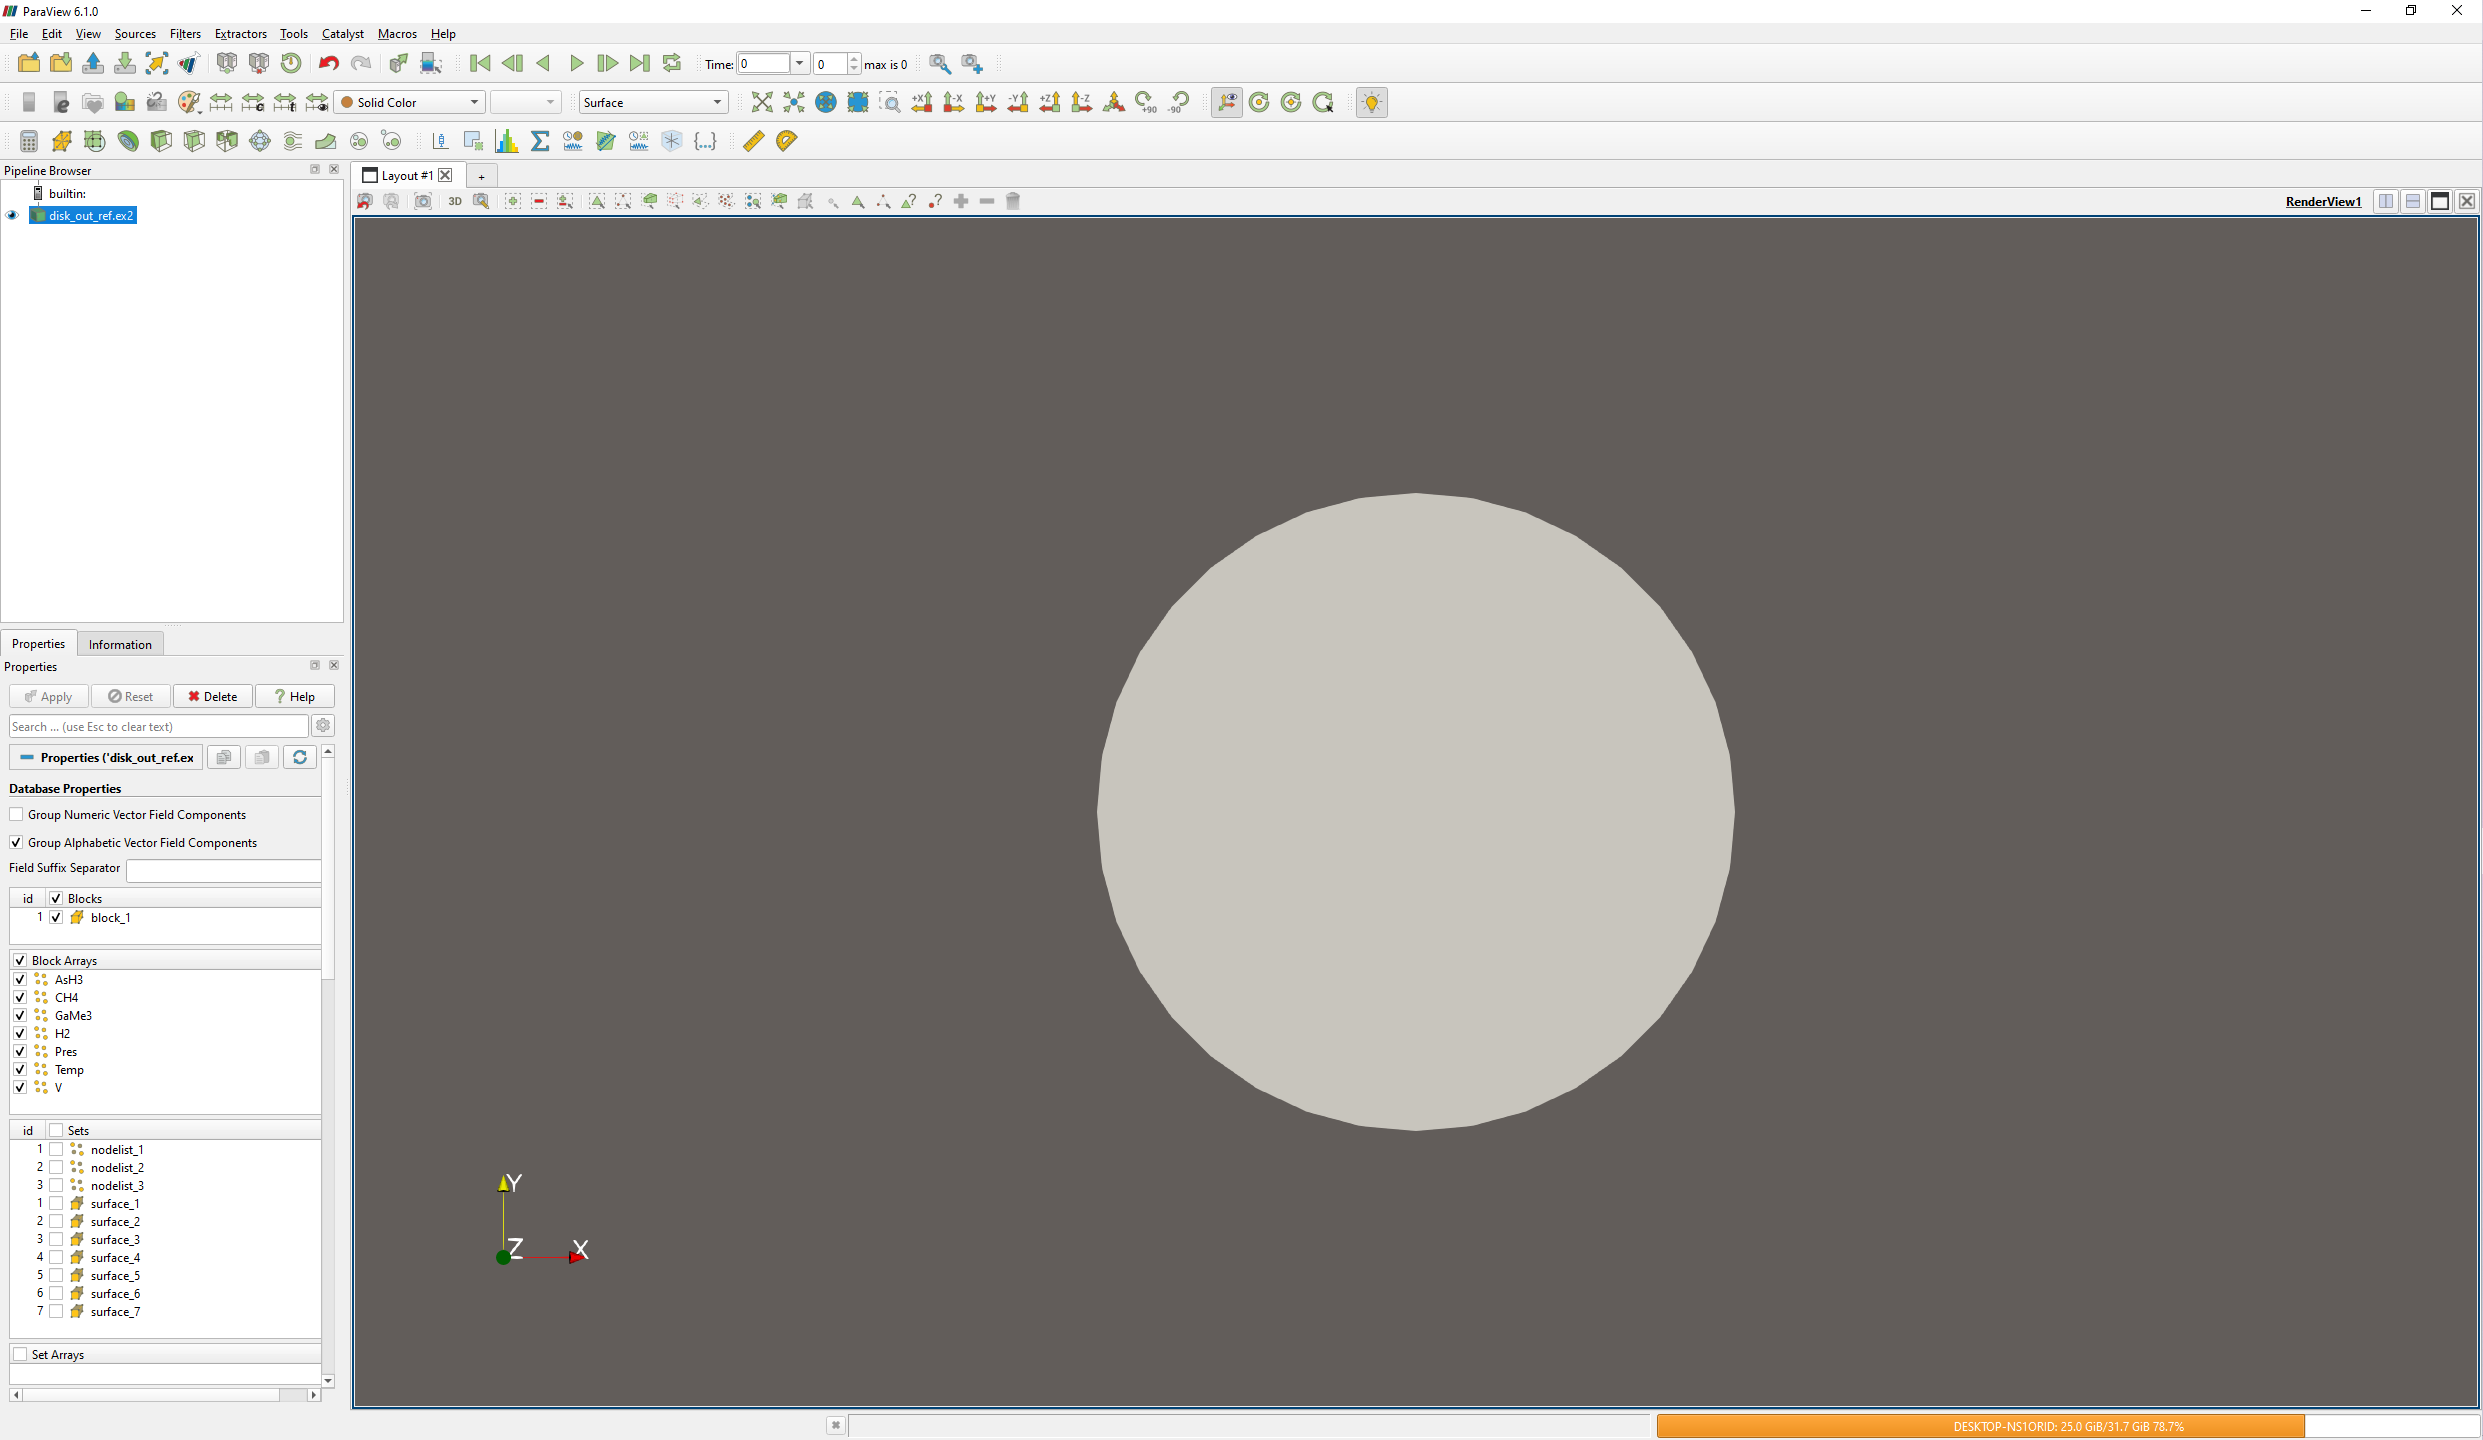
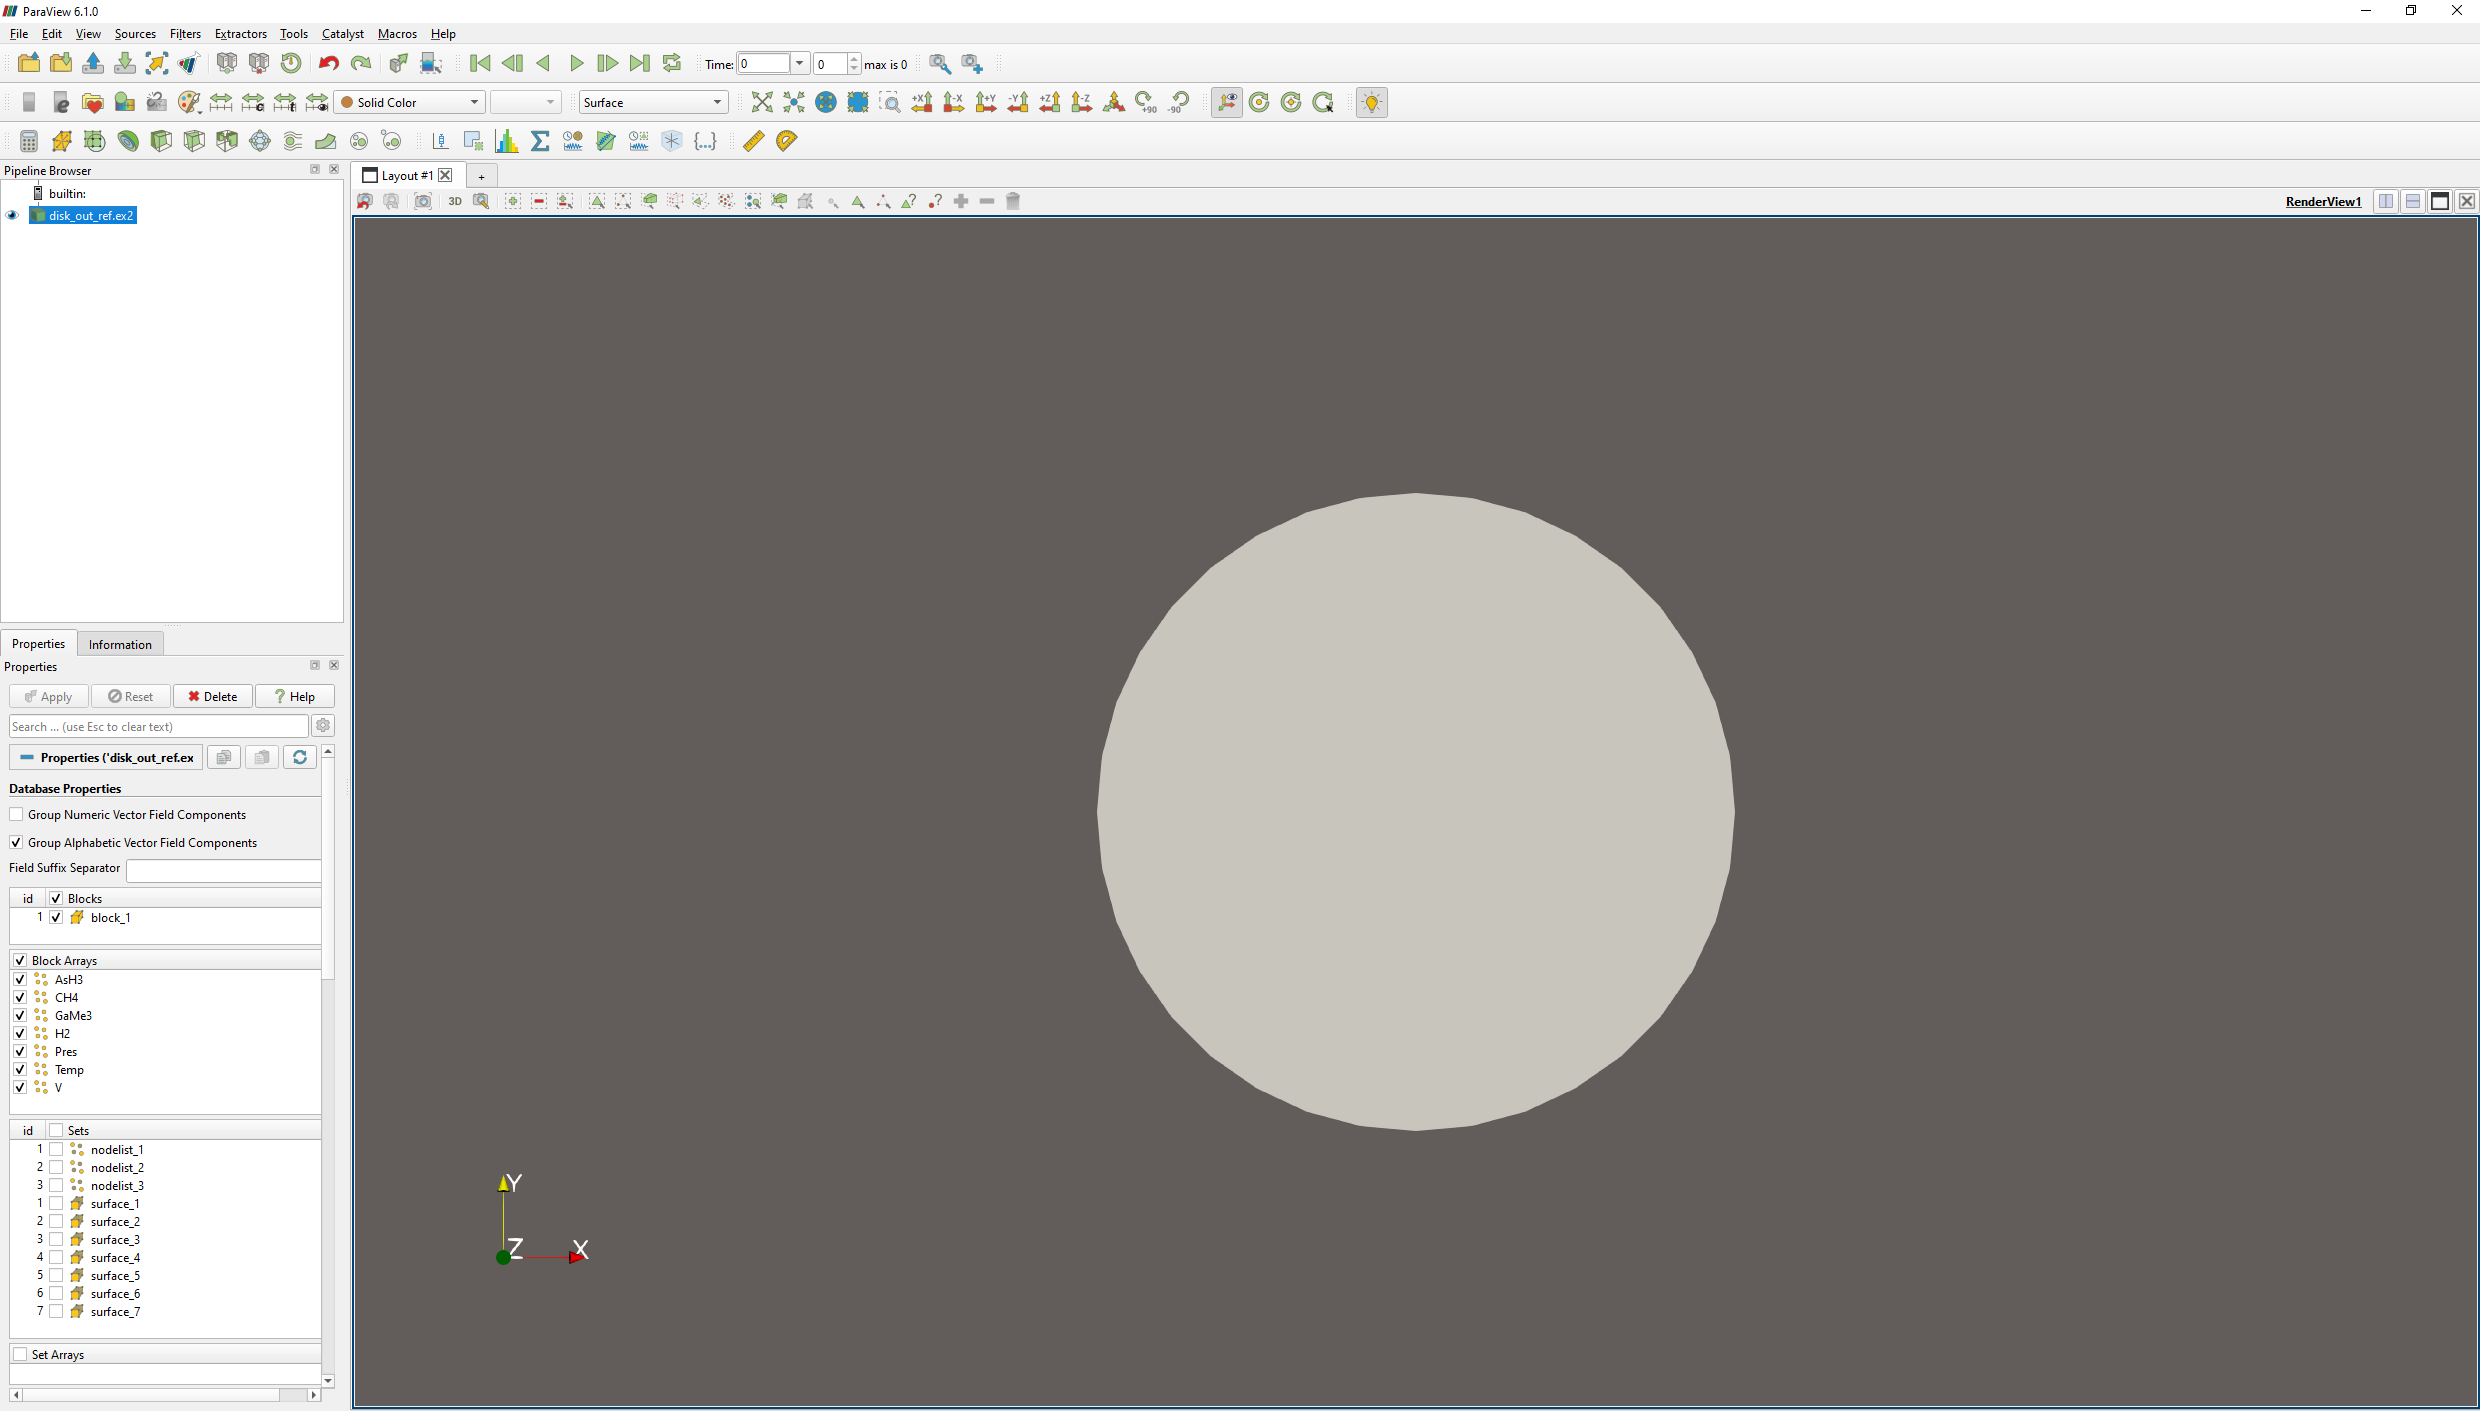
Add velocity-colored view to portfolio

diff --git a/index.md b/index.md
@@ -36,3 +36,8 @@ These outputs are relevant to AI-adjacent research workflows because refined sci
 This screenshot shows the initial loaded state of the scientific dataset in ParaView before any refinement filters were applied.
 
 <a href="assets/01-raw-dataset-view.png" target="_blank" rel="noopener noreferrer"><img src="assets/01-raw-dataset-view.png" alt="Raw dataset view"></a>
+
+#### Velocity-colored view
+This view applies the dataset’s `V` field for color mapping, which introduces a first-pass scientific variable overlay instead of a neutral solid-color surface. This is a basic refinement step because it starts turning the raw geometry into a more interpretable technical asset.
+
+<a href="assets/02-colored-by-velocity.png" target="_blank" rel="noopener noreferrer"><img src="assets/02-colored-by-velocity.png" alt="Velocity-colored view"></a>
